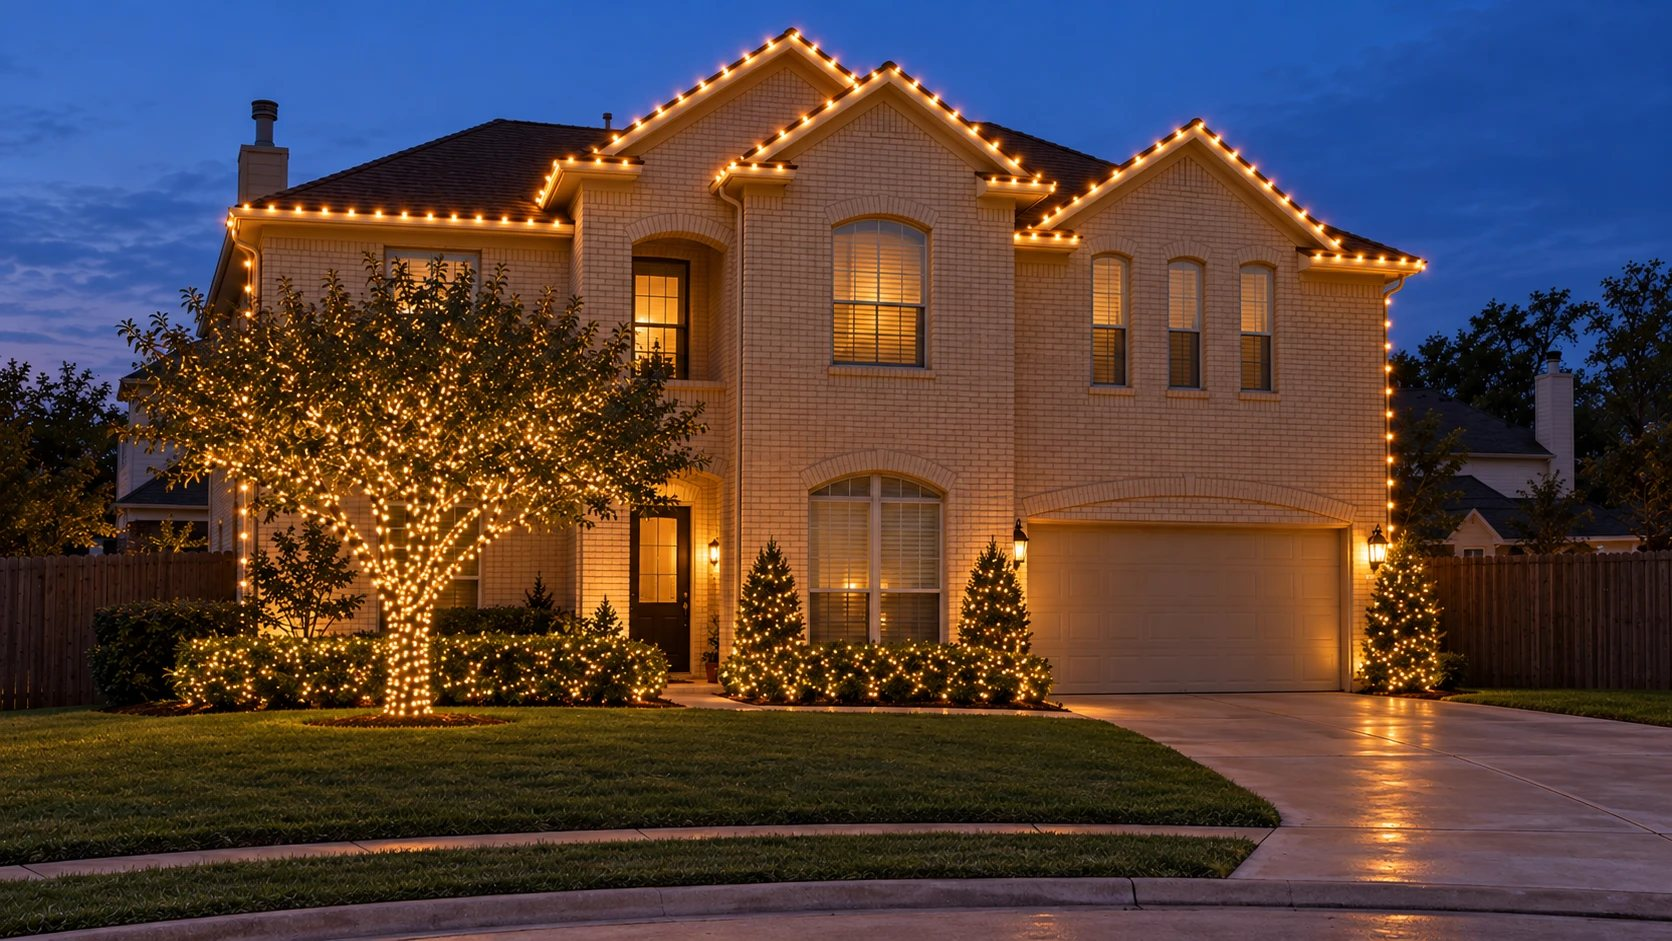
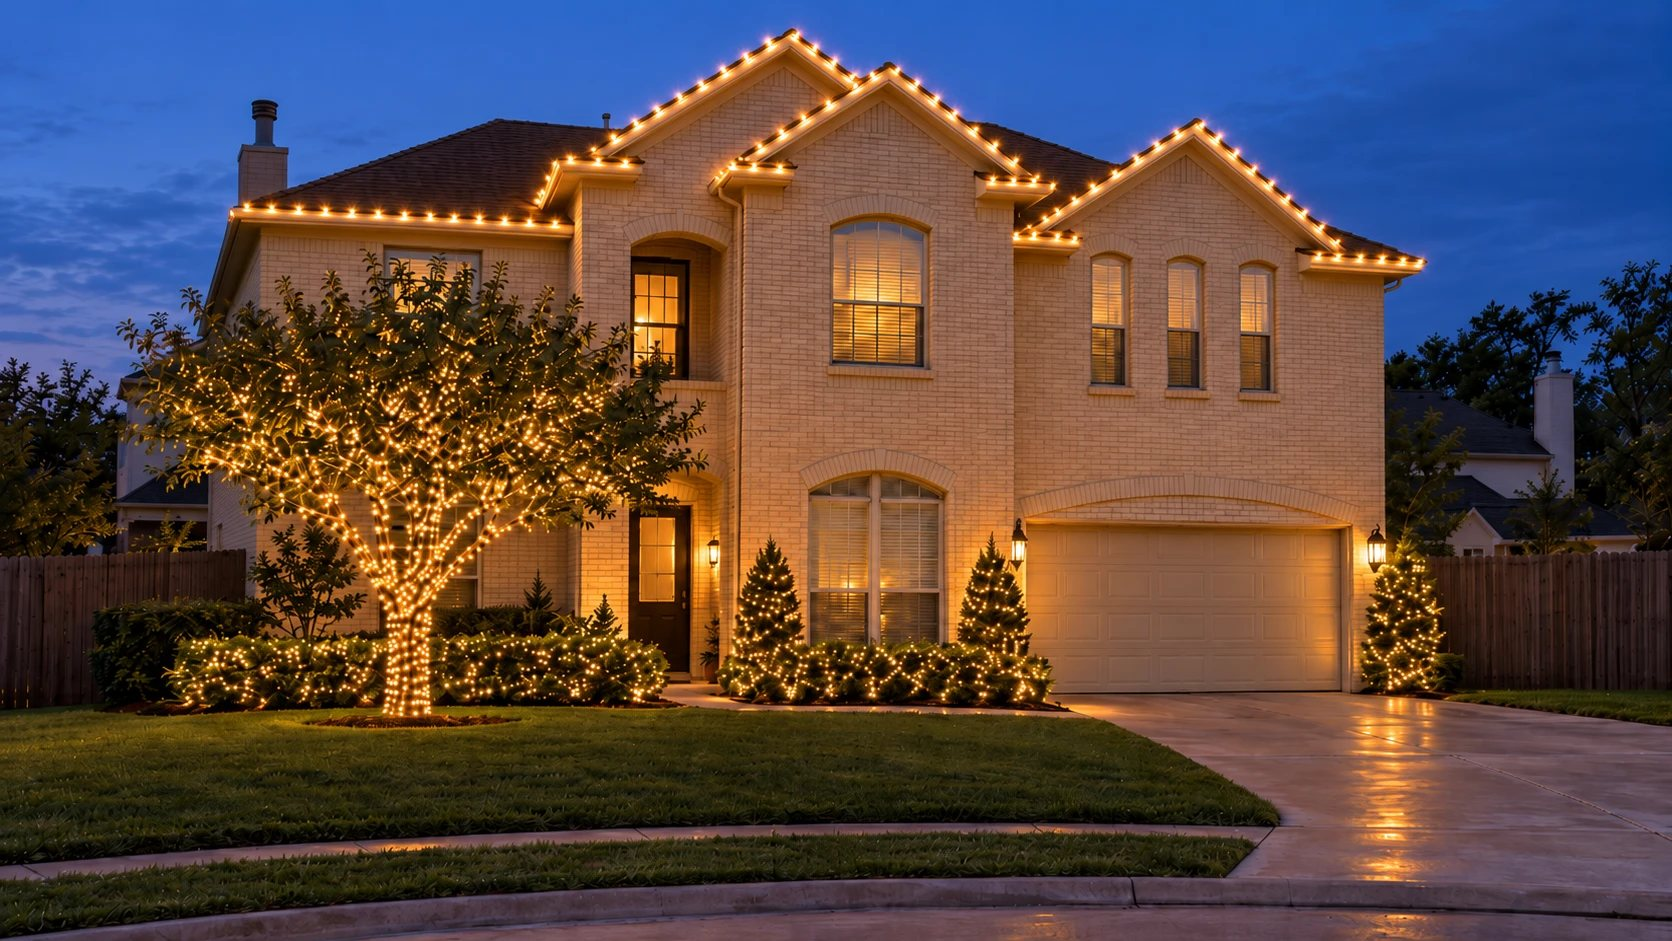
Christmas lighting: new house photo without lights down the walls
Claude-Session: https://claude.ai/code/session_01DVcnvSjdPh322HY9sHS5jN

diff --git a/index.html b/index.html
@@ -114,8 +114,8 @@
       <div class="lights-sticky">
         <div class="lights-scene" aria-hidden="true">
           <figure class="scene" data-label="Rooflines and a wrapped tree">
-            <img class="dim" src="images/lights-suburban.jpg" alt="" width="1672" height="941" />
-            <img class="lit" src="images/lights-suburban.jpg" alt="" width="1672" height="941" />
+            <img class="dim" src="images/lights-suburban.jpg?v=2" alt="" width="1672" height="941" />
+            <img class="lit" src="images/lights-suburban.jpg?v=2" alt="" width="1672" height="941" />
           </figure>
           <div class="lights-shade"></div>
         </div>
